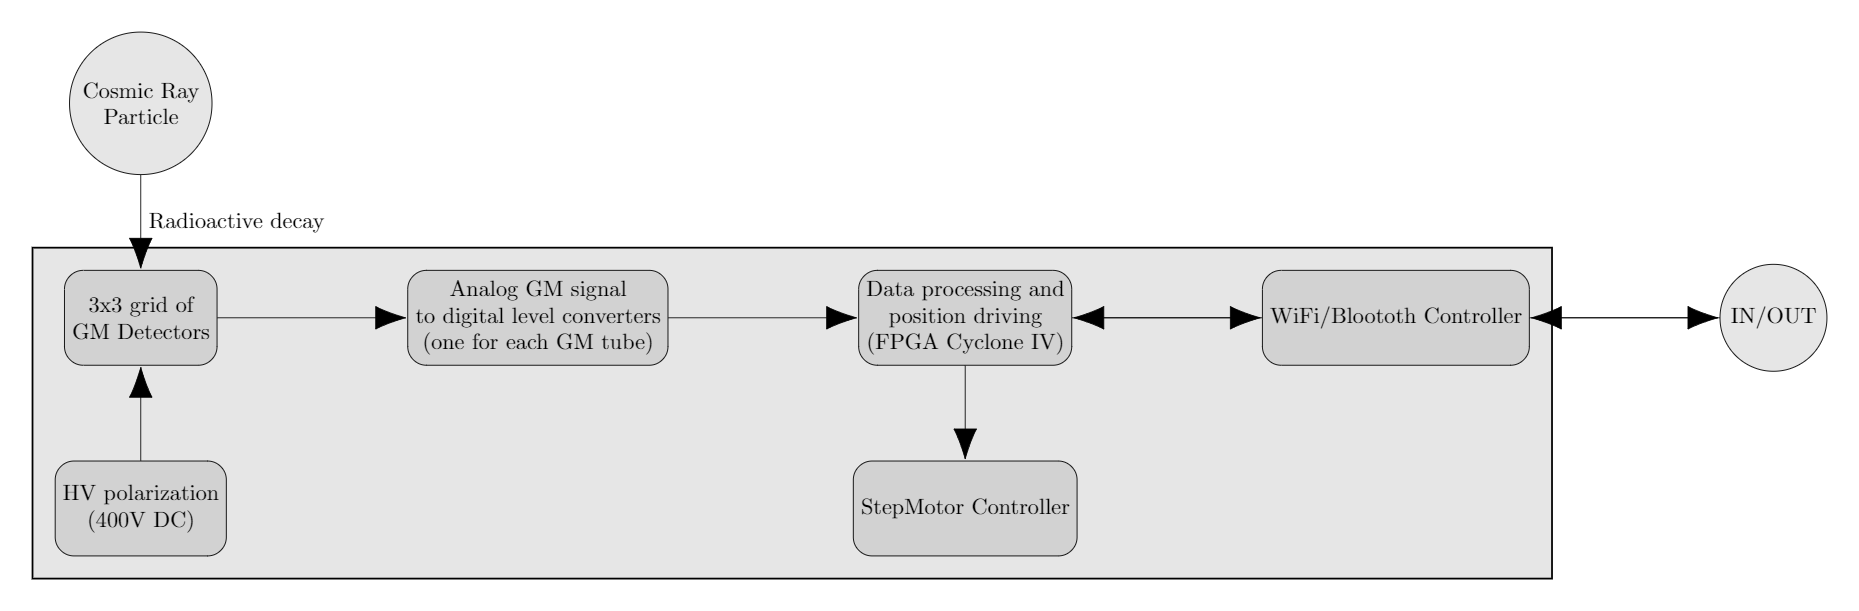
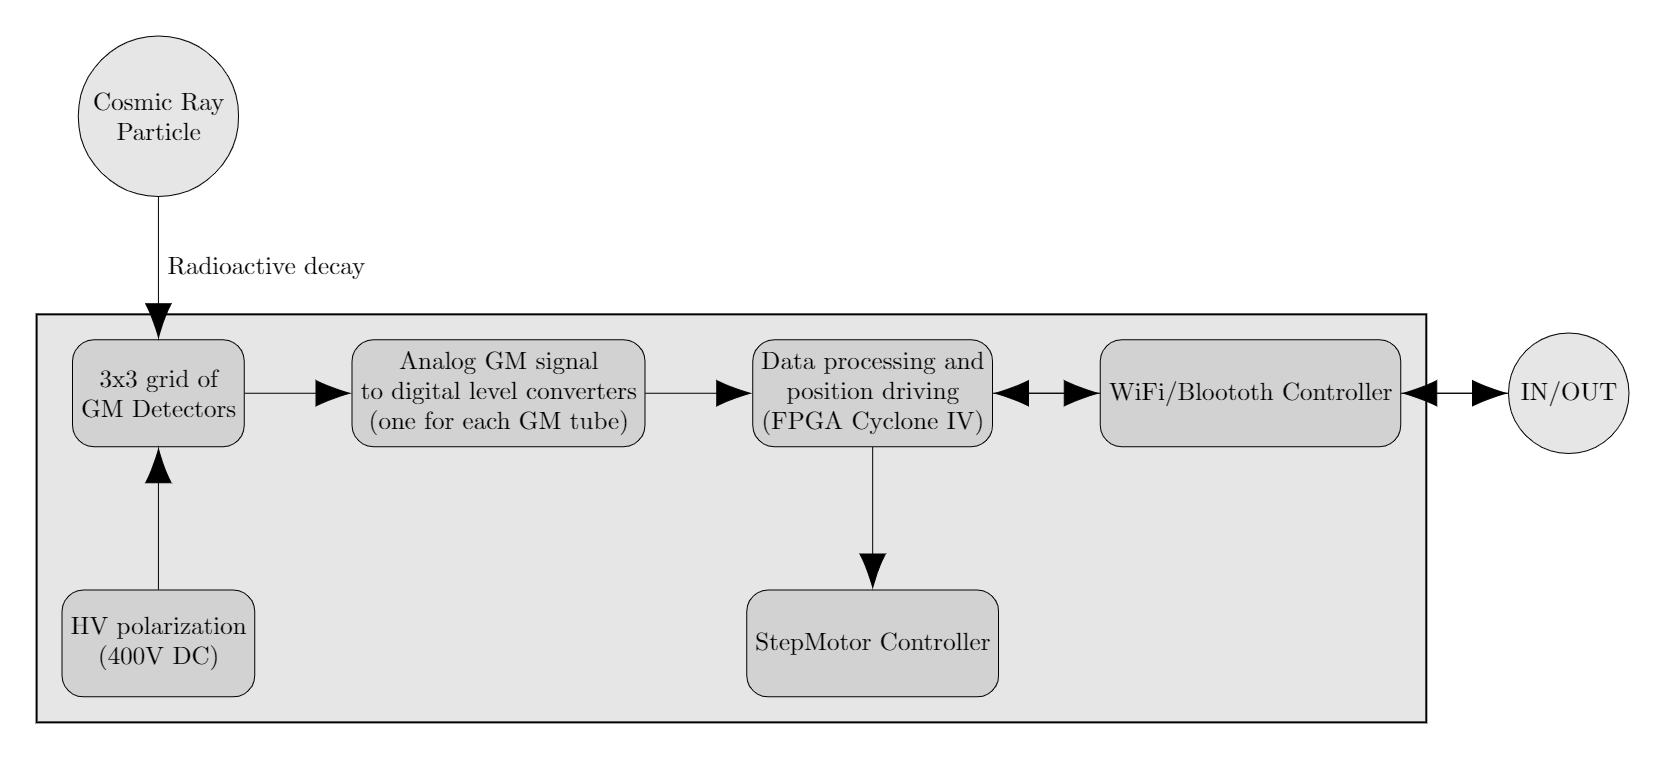
reduced spaces between components

diff --git a/documentation/diagrams/ArchitectureOverview.tex b/documentation/diagrams/ArchitectureOverview.tex
@@ -5,7 +5,7 @@
 \definecolor{componentColor}{RGB}{210,210,210}
 \definecolor{systemColor}{RGB}{230,230,230}
 
-\tikzset{component/.append style={fill=componentColor, align=center, draw, minimum width=2cm, minimum height=1.5cm, rounded corners=.3cm}}
+\tikzset{component/.append style={fill=componentColor, align=center, draw, minimum width=2cm, minimum height=1.5cm, rounded corners=.3cm,node distance=2cm and 1.5cm}}
 \tikzset{system/.style={component, fill=systemColor, rounded corners=0cm}}
 \tikzset{interface/.style={system, fill=systemColor, minimum size=1.6cm}}
 
